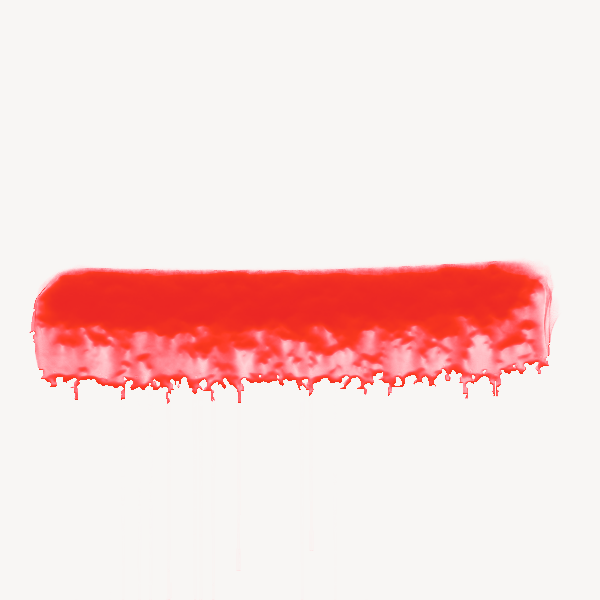
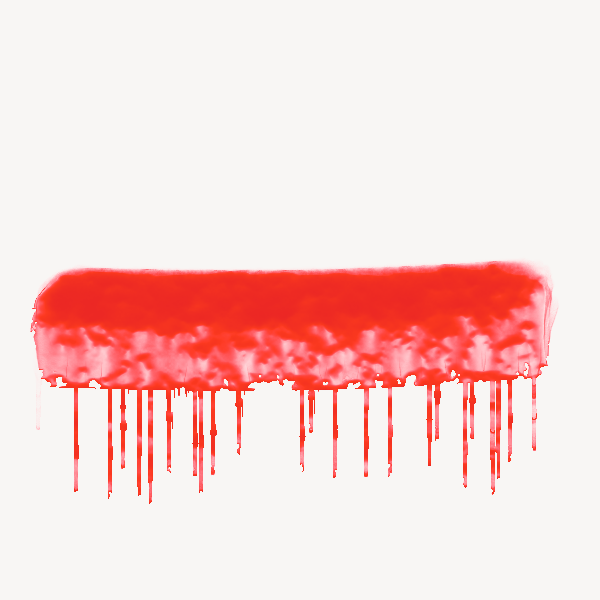
Brush Lab run 44

diff --git a/report.md b/report.md
@@ -1,73 +1,71 @@
 ![All brushes](contact.png)
 
-# Brush Lab — 4 brushes · Nov 4, 2026 at 8:08 AM
+# Brush Lab — 4 brushes · Nov 4, 2026 at 8:34 AM
 
 Every sheet: 1500 × 600, ten strokes in a 5 × 2 grid — 1. light line · 2. heavy line · 3. pressure swell · 4. fast wave · 5. slow wave · 6. spiral · 7. loop · 8. tilted · 9. over the wet one · 10. long, no reload (cell 8 holds «tilted» and «over the wet one» crossed). The CPU reference of Mamay's paint engine; the wet layer settles 20 s at the end.
 
 Columns: **covered** = share of the cell with paint right after the stroke → after settling; **width** = painted area of the stroke ÷ its length (px); **dark** = mean darkness of the painted pixels above the paper's own grain (0 = paper, 1 = black); **spread** = how far wet paint went beyond the stroke (1.0 = stayed); **ms** = the stroke on the CPU; long stroke: paint in each quarter of its length (it should run out: wet → streaks → dry tail).
 
 ## Brush Artist · Refs · #35 Red band with runs
-Watercolor · 70 px · 45.7 s
+Watercolor · 70 px · 61.6 s
 
 ![Brush Artist · Refs · #35 Red band with runs](Brush-Artist-Refs-35-Red-band-with-runs.png)
 
 | stroke | covered | width | dark | spread | ms |
 |---|---|---|---|---|---|
-| light line | 17 % → 35 % | 48.3 px | 0.47 | 2.08 | 116 |
-| heavy line | 25 % → 41 % | 73.9 px | 0.49 | 1.61 | 209 |
-| pressure swell | 17 % → 25 % | 63.0 px | 0.53 | 1.50 | 139 |
-| fast wave | 54 % → 73 % | 61.9 px | 0.51 | 1.37 | 424 |
-| slow wave | 52 % → 71 % | 59.8 px | 0.54 | 1.38 | 968 |
-| spiral | 72 % → 89 % | 47.4 px | 0.55 | 1.24 | 695 |
-| loop | 47 % → 71 % | 61.4 px | 0.51 | 1.51 | 357 |
-| tilted | 21 % → 22 % | 58.2 px | 0.50 | 1.06 | 258 |
-| over the wet one | 43 % → 71 % | 62.1 px | 0.50 | 1.65 | 180 |
-| long, no reload | 93 % → 98 % | 41.5 px | 0.58 | 1.06 | 1026 | quarters: 0.60 → 0.60 → 0.59 → 0.57
+| light line | 21 % → 38 % | 60.0 px | 0.44 | 1.82 | 271 |
+| heavy line | 30 % → 45 % | 86.8 px | 0.47 | 1.50 | 544 |
+| pressure swell | 17 % → 25 % | 63.0 px | 0.53 | 1.50 | 250 |
+| fast wave | 57 % → 74 % | 65.4 px | 0.50 | 1.31 | 676 |
+| slow wave | 54 % → 72 % | 62.2 px | 0.54 | 1.33 | 1092 |
+| spiral | 74 % → 90 % | 49.1 px | 0.55 | 1.20 | 1022 |
+| loop | 55 % → 78 % | 71.8 px | 0.50 | 1.40 | 550 |
+| tilted | 25 % → 29 % | 69.5 px | 0.49 | 1.17 | 366 |
+| over the wet one | 50 % → 78 % | 70.4 px | 0.49 | 1.55 | 348 |
+| long, no reload | 93 % → 99 % | 41.8 px | 0.58 | 1.06 | 1470 | quarters: 0.60 → 0.60 → 0.59 → 0.56
 
-Numbers say: light vs heavy: width 48.3 → 73.9 px, dark 0.47 → 0.49; the long stroke does not run out of paint; wet paint spreads well beyond the stroke.
+Numbers say: light vs heavy: width 60.0 → 86.8 px, dark 0.44 → 0.47; the long stroke does not run out of paint; wet paint spreads well beyond the stroke.
 
 ## Brush Artist · Refs · #48 Black bands with drips
-Gouache · 70 px · 39.6 s
+Gouache · 70 px · 57.2 s
 
 ![Brush Artist · Refs · #48 Black bands with drips](Brush-Artist-Refs-48-Black-bands-with-drips.png)
 
 | stroke | covered | width | dark | spread | ms |
 |---|---|---|---|---|---|
-| light line | 19 % → 18 % | 54.7 px | 0.68 | 0.94 | 218 |
-| heavy line | 29 % → 24 % | 83.1 px | 0.68 | 0.85 | 272 |
-| pressure swell | 23 % → 21 % | 86.1 px | 0.68 | 0.92 | 173 |
-| fast wave | 54 % → 37 % | 62.8 px | 0.68 | 0.67 | 538 |
-| slow wave | 54 % → 36 % | 61.9 px | 0.68 | 0.67 | 1135 |
-| spiral | 64 % → 35 % | 42.2 px | 0.68 | 0.54 | 884 |
-| loop | 45 % → 37 % | 58.1 px | 0.68 | 0.82 | 451 |
-| tilted | 19 % → 19 % | 52.5 px | 0.68 | 1.00 | 281 |
-| over the wet one | 41 % → 38 % | 62.5 px | 0.68 | 0.92 | 210 |
-| long, no reload | 74 % → 37 % | 33.4 px | 0.68 | 0.50 | 1254 | quarters: 0.64 → 0.61 → 0.54 → 0.44
+| light line | 20 % → 18 % | 58.7 px | 0.67 | 0.90 | 463 |
+| heavy line | 30 % → 25 % | 87.8 px | 0.67 | 0.83 | 652 |
+| pressure swell | 23 % → 21 % | 86.1 px | 0.67 | 0.92 | 363 |
+| fast wave | 56 % → 37 % | 64.4 px | 0.67 | 0.66 | 892 |
+| slow wave | 55 % → 36 % | 63.8 px | 0.67 | 0.66 | 1444 |
+| spiral | 65 % → 35 % | 42.9 px | 0.67 | 0.53 | 1454 |
+| loop | 47 % → 38 % | 60.7 px | 0.67 | 0.81 | 629 |
+| tilted | 20 % → 20 % | 55.5 px | 0.67 | 1.01 | 565 |
+| over the wet one | 43 % → 39 % | 64.5 px | 0.67 | 0.91 | 342 |
+| long, no reload | 75 % → 37 % | 33.5 px | 0.67 | 0.50 | 1777 | quarters: 0.63 → 0.60 → 0.53 → 0.43
 
-Numbers say: light vs heavy: width 54.7 → 83.1 px, dark 0.68 → 0.68.
+Numbers say: light vs heavy: width 58.7 → 87.8 px, dark 0.67 → 0.67.
 
 ## Brush Artist · Refs · #35 Red band with runs — own sheet
-own sheet 600 × 600 · Watercolor · 70 px · 5.6 s
+own sheet 600 × 600 · Watercolor · 70 px · 10.3 s
 
 ![Brush Artist · Refs · #35 Red band with runs — own sheet](Brush-Artist-Refs-35-Red-band-with-runs-own-sheet.png)
 
 | stroke | covered | width | dark | spread | ms |
 |---|---|---|---|---|---|
-| stroke 1 | 21 % → 33 % | 77.5 px | 0.50 | 1.59 | 292 |
-
-Numbers say: wet paint spreads well beyond the stroke.
+| stroke 1 | 26 % → 37 % | 96.0 px | 0.50 | 1.45 | 734 |
 
 ## Brush Artist · Refs · #48 Black bands with drips — own sheet
-own sheet 600 × 600 · Gouache · 70 px · 9.2 s
+own sheet 600 × 600 · Gouache · 70 px · 16.7 s
 
 ![Brush Artist · Refs · #48 Black bands with drips — own sheet](Brush-Artist-Refs-48-Black-bands-with-drips-own-sheet.png)
 
 | stroke | covered | width | dark | spread | ms |
 |---|---|---|---|---|---|
-| stroke 1 | 23 % → 36 % | 59.0 px | 0.39 | 1.58 | 428 |
-| stroke 2 | 34 % → 48 % | 108.7 px | 0.39 | 1.41 | 414 |
-| stroke 3 | 36 % → 48 % | 112.8 px | 0.39 | 1.34 | 434 |
-| stroke 4 | 38 % → 36 % | 111.8 px | 0.39 | 0.95 | 419 |
+| stroke 1 | 25 % → 38 % | 64.4 px | 0.38 | 1.54 | 631 |
+| stroke 2 | 38 % → 51 % | 121.1 px | 0.38 | 1.36 | 756 |
+| stroke 3 | 40 % → 52 % | 125.0 px | 0.38 | 1.30 | 687 |
+| stroke 4 | 43 % → 40 % | 124.2 px | 0.38 | 0.95 | 641 |
 
 Numbers say: wet paint spreads well beyond the stroke.
 
